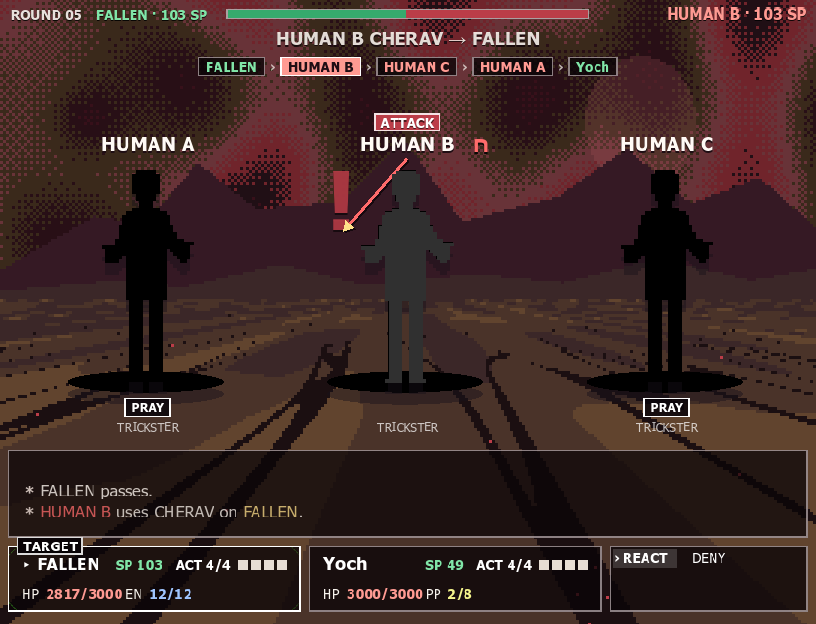
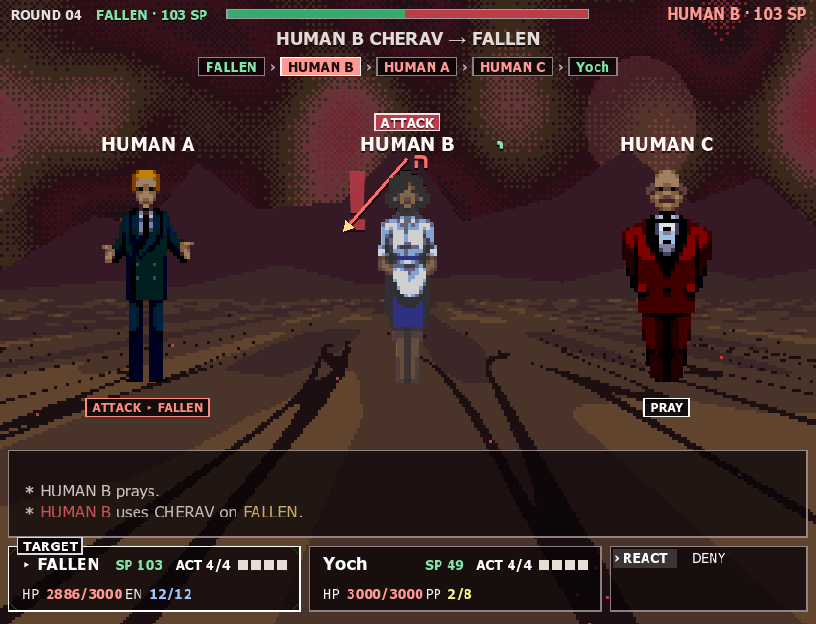
Arte gerada da Saturnina (percurso) que apareceu durante o envio

diff --git a/docs/GDD.md b/docs/GDD.md
@@ -3193,7 +3193,7 @@ escopo do protótipo) foram aprovadas em rodadas anteriores e estão registradas
   hebraicos``. Respostas: ``Maziks não se juntam com humanos, humanos lutam em grupos de humanos e
   maziks em grupos de maziks``, ``1 grupo por estrato``, ``só humanos normais, sem lore nem nada``,
   HOLY ``ignora`` (sem efeito mecânico), humanos ``com PP como a Yoch``, humanos ``não são
-  absorvíveis``, as rezas da Yoch ``não mudam``, arte = ``modelo de NPC humano`` do jogo (P15). As 3
+  absorvíveis``, as rezas da Yoch ``não mudam``, arte = ``modelo de NPC humano`` do jogo (P15, depois P10 e P19 para variar) e, por correção do criador, ``só maziks são silhuetas``: humanos usam a arte colorida e não têm sombra no chão. As 3
   rezas foram desenhadas pelo criador: **SANVERIM** (2 PP) cegueira de luz até o fim do próximo round,
   o alvo erra mais (zona de acerto menor); **NECHAMAH** (1 PP) cura 5 HP por round durante 3 rounds,
   como o oposto da queimadura (acumula); **CHERAV** (3 PP) dano em área, um corte de luz, 10 + MAK −

diff --git a/docs/SURVIVAL_MODE.md b/docs/SURVIVAL_MODE.md
@@ -143,8 +143,8 @@ HEAT WAVE, ENERGY EAT e as rezas da Yoch não mudaram. `tests/verify_skill_fx.gd
 
 ## Humanos (D-107)
 
-Cada estrato tem 1 grupo só de humanos (3), que aparece no mapa como uma silhueta humana (modelo de NPC
-P15) e luta sem demônios. Humanos rezam com PP (sem EN): PRAY (+1 PP), SANVERIM (2 PP, cegueira),
+Cada estrato tem 1 grupo só de humanos (3), que aparece no mapa e na batalha com a própria arte colorida e sem
+sombra no chão (só mazikim são silhuetas), usando modelos de NPC humano do jogo (P15, P10 e P19), e luta sem demônios. Humanos rezam com PP (sem EN): PRAY (+1 PP), SANVERIM (2 PP, cegueira),
 NECHAMAH (1 PP, 5 HP por round por 3 rounds) e CHERAV (3 PP, 10 + MAK − MEF em todos os heróis).
 Não podem ser absorvidos e não entram no CODEX. Regras em `SkillBook.DEFS`, `SkillFx` e
 `SurvivalData.human_defs`; prova em `tests/verify_human_groups.gd`.
